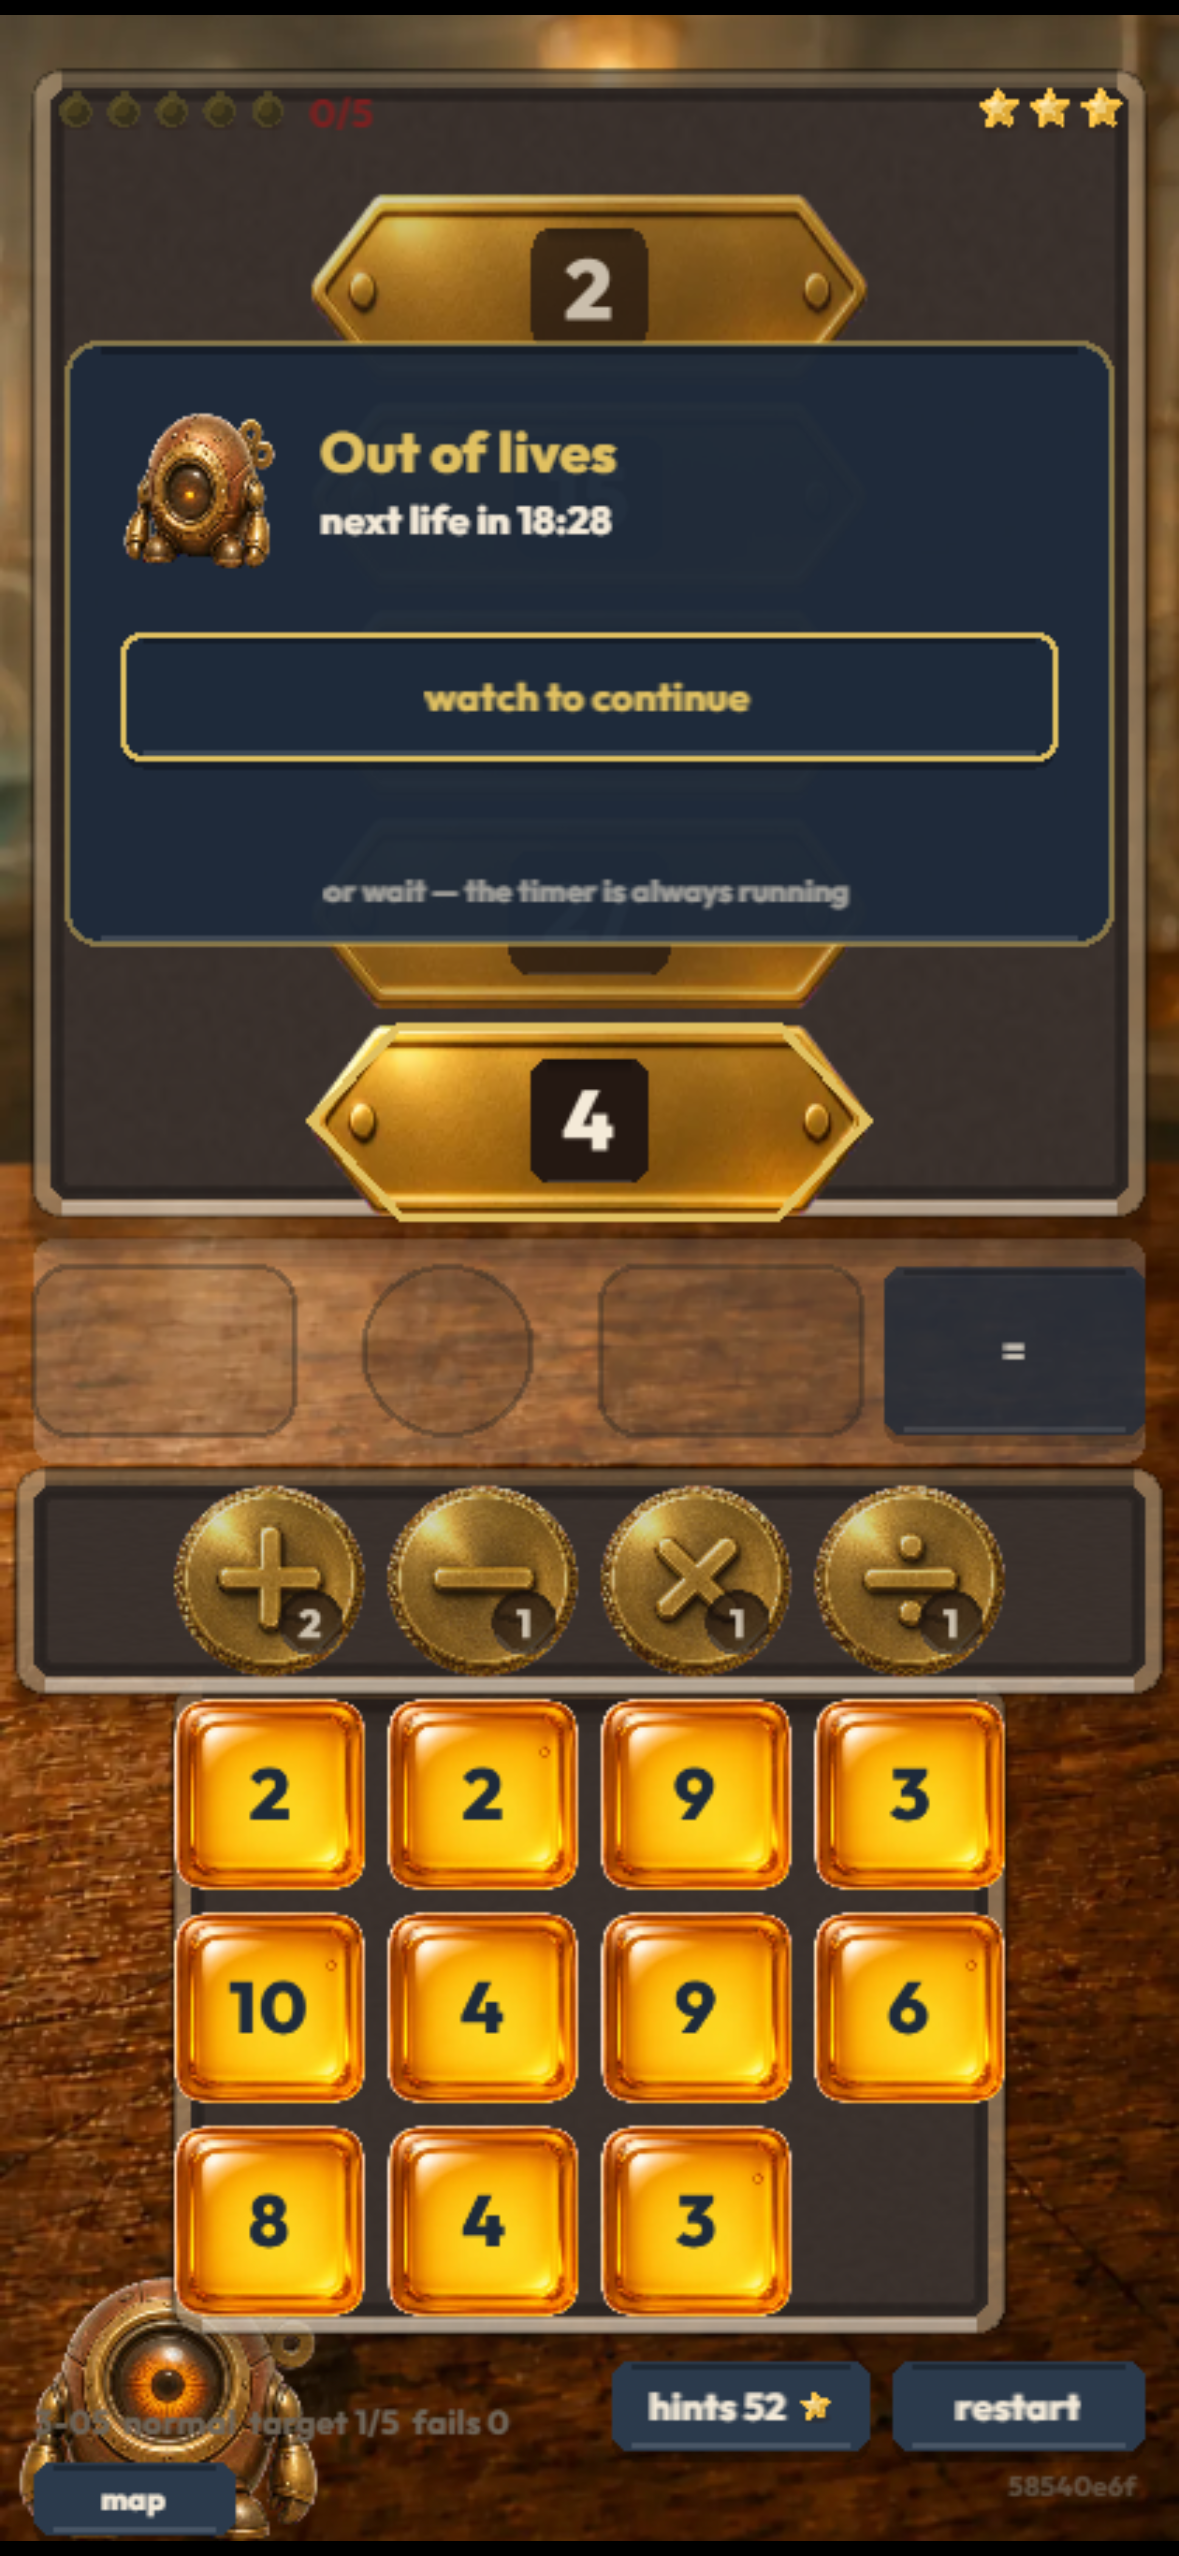
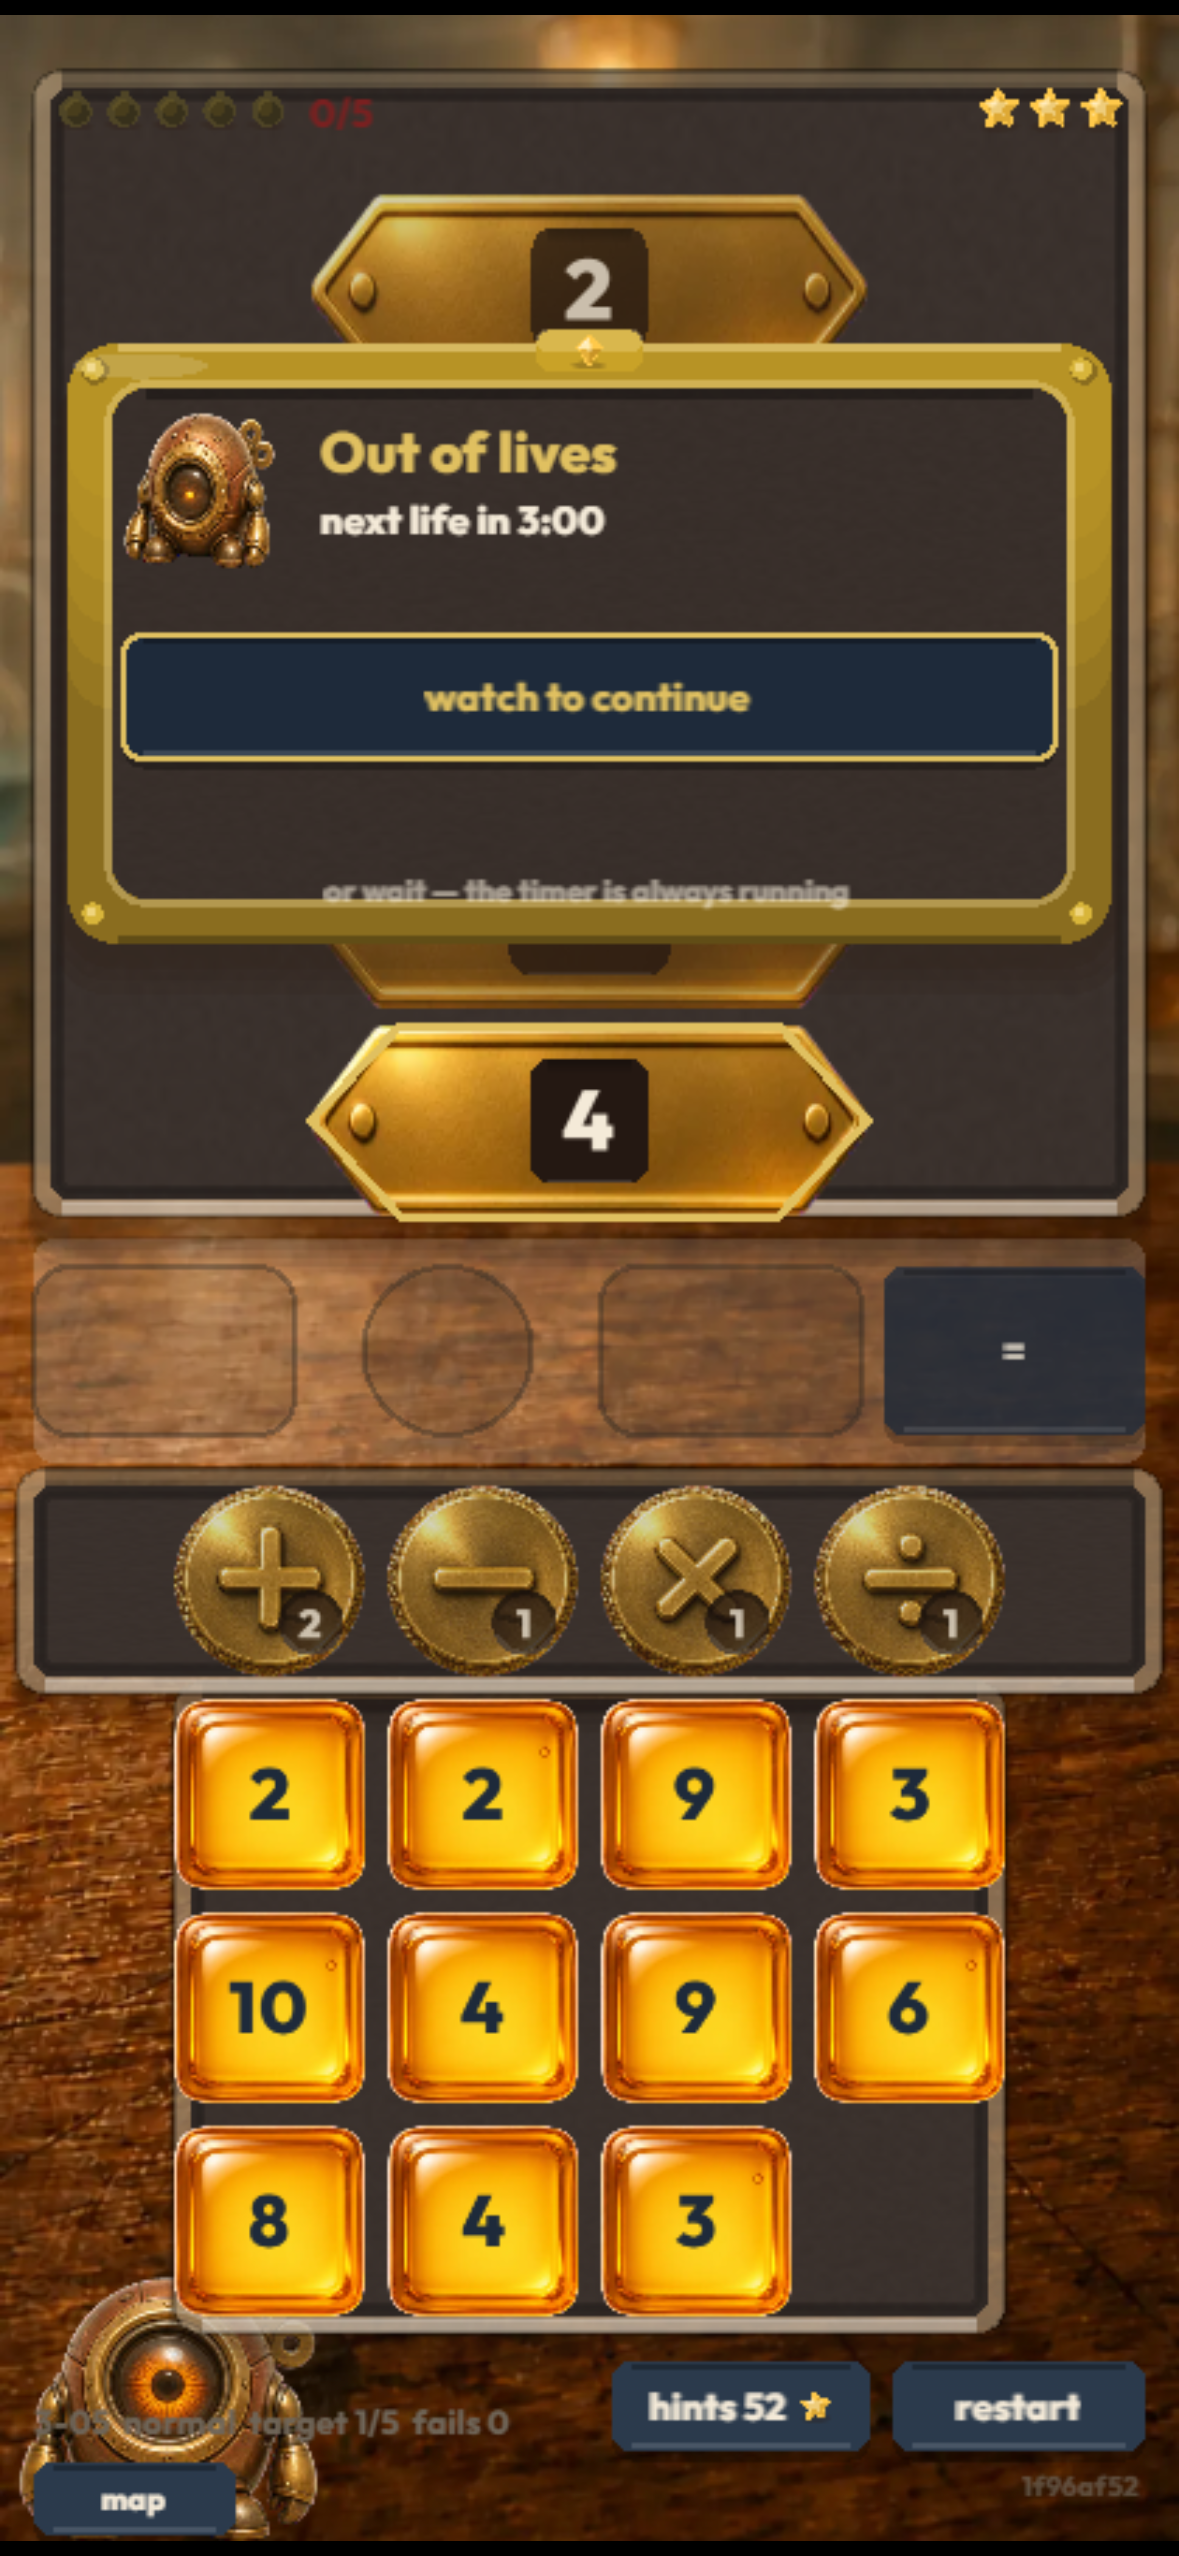
Out-of-lives on framedPanel; sweep every panel surface once
THE THIRD INSTANCE

Out-of-lives was a flat navy card with a gold stroke — the same defect
as the warning panel and the hint shop, and like both of those it was
fixed only when pointed at. Same three lines.

THEN THE SWEEP, so there is no fourth

  framedPanel  cleared, failure, warning, hint shop, out-of-lives,
               the Academy shelf, the Academy confirm — seven, all of
               the modal surfaces in the game
  PALETTE.card zero callers. The cream surface they all used to be is
               gone from the codebase entirely

Legitimately not framed, each with its reason recorded beside
framedPanel rather than left to be re-derived: woodenTray and
feltLinedTray are furniture the board sits ON rather than a surface
laid OVER it; recessedPanel is the inset INSIDE a token; the ghost and
empty slots are the absence of a token and framing a hole would make it
an object; the equation band veil is a tint, not a panel.

The comment states the rule and where a new panel belongs, so the next
one is a lookup rather than a fourth discovery.

350/350 green.

Changed region(s): [[0.0305, 0.1236, 0.9466, 0.4018], [0.855, 0.9581, 0.8855, 0.989]]

diff --git a/src/renderer/tokens.ts b/src/renderer/tokens.ts
@@ -204,6 +204,33 @@ export function operatorCount(size: number, remaining: number): Container {
   return chip;
 }
 
+/*
+ * EVERY MODAL SURFACE IN THE GAME IS THIS ONE (§9.0).
+ *
+ * Swept once, after the same defect appeared three times — the warning panel,
+ * the hint shop, and out-of-lives were each a flat card with a stroke, and each
+ * was fixed only when pointed at. Two instances of a rule means look for the
+ * third rather than wait for it to surface.
+ *
+ * The seven that use it: cleared, failure, warning, hint shop, out-of-lives,
+ * the Academy shelf, the Academy confirm. `PALETTE.card` — the cream surface
+ * they all used to be — now has no callers at all.
+ *
+ * WHAT LEGITIMATELY IS NOT A FRAMED PANEL, and why:
+ *
+ *   woodenTray, feltLinedTray   furniture the board sits ON, not a surface
+ *                               laid OVER it. A tray inside a brass frame
+ *                               would be a box inside a box.
+ *   recessedPanel               the numeral inset INSIDE a token, at a scale
+ *                               where a frame would be all frame.
+ *   ghostPlaque, ghostSlot,     the absence of a token, drawn stroke-only:
+ *   emptySlot                   framing a hole would make it an object.
+ *   the equation band veil      a band TINT, the same derived value the lane
+ *                               uses, not a panel at all.
+ *
+ * Anything new that reads as a panel laid over the board belongs here. If it
+ * does not, say why beside it.
+ */
 /**
  * A FRAMED PANEL — the modal shell for §9.4's failure options.
  *

diff --git a/src/renderer/renderer.ts b/src/renderer/renderer.ts
@@ -762,21 +762,17 @@ export class Renderer {
     const x = lane.x + 12;
     const y = lane.y + lane.height / 2 - height / 2;
 
-    const panel = new Graphics()
-      .roundRect(x, y, width, height, 12)
-      .fill({ color: PALETTE.targetPlate, alpha: 0.97 });
-    panel
-      .moveTo(x + 12, y + 2)
-      .lineTo(x + width - 12, y + 2)
-      .stroke({ width: 3, color: 0x000000, alpha: 0.3 });
-    panel
-      .moveTo(x + 12, y + height - 2)
-      .lineTo(x + width - 12, y + height - 2)
-      .stroke({ width: 2, color: 0xffffff, alpha: 0.14 });
-    panel
-      .roundRect(x, y, width, height, 12)
-      .stroke({ width: 2, color: PALETTE.highlight, alpha: 0.5 });
-    this.root.addChild(this.entry(panel, BOARD_BANDS.furniture));
+    /*
+     * BRASS OVER FELT, like every other panel (§9.0).
+     *
+     * This was a flat navy card with a gold stroke — the third instance of the
+     * same defect, after the warning panel and the hint shop. Each time the fix
+     * was applied where the bug was pointed at rather than everywhere the rule
+     * held, which is the pattern CLAUDE.md now names.
+     */
+    const framed = framedPanel(width, height);
+    framed.panel.position.set(x, y);
+    this.root.addChild(this.entry(framed.panel, BOARD_BANDS.furniture));
 
     /*
      * THE AUTOMATON'S SEAT (ART_DIRECTION §2, concerned state).
